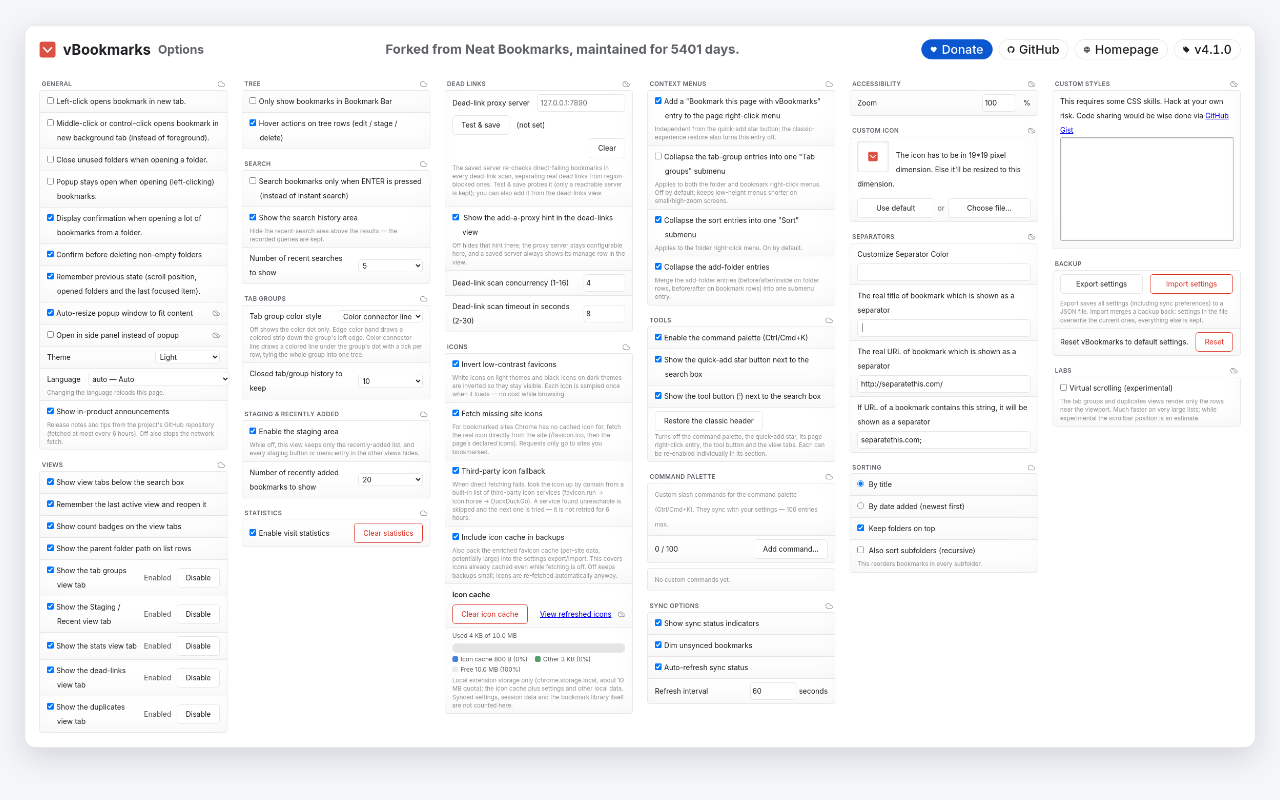
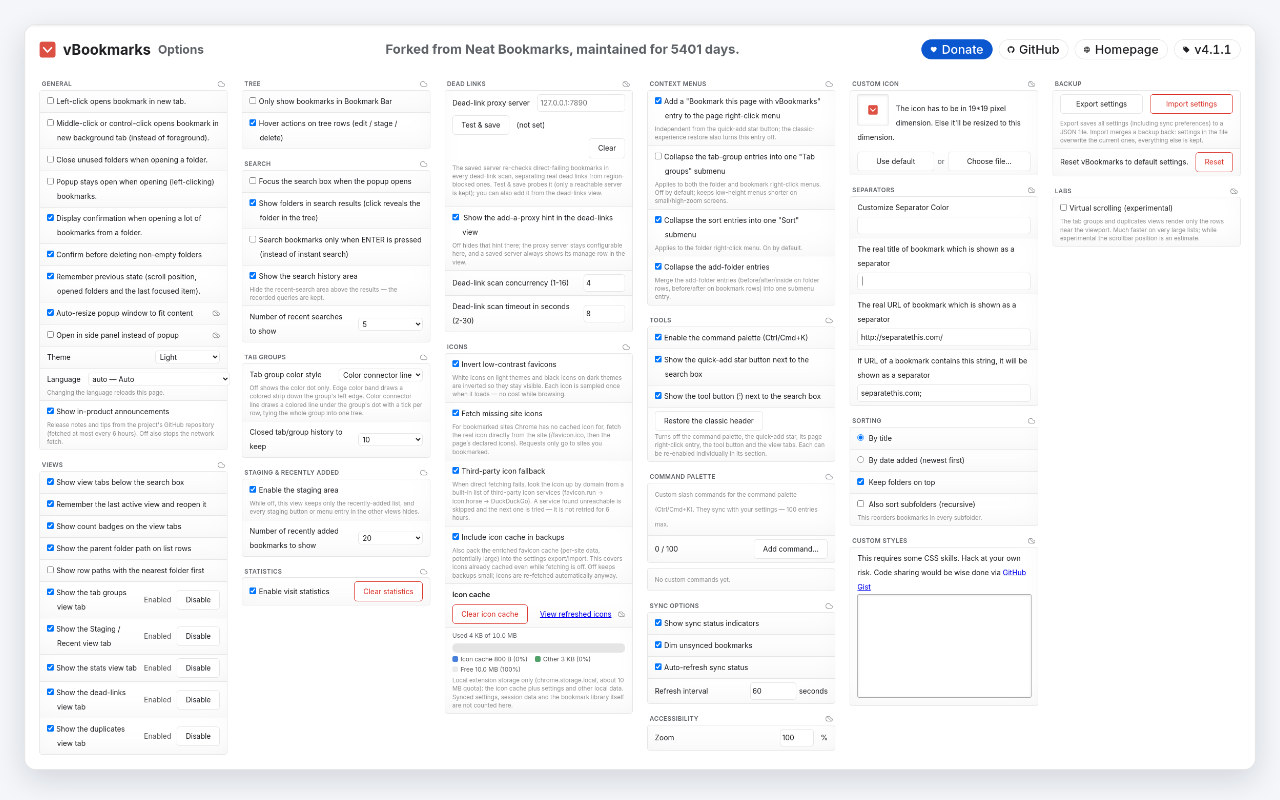
docs(release): 4.1.1 双语 changelog 定稿 + 商店六图重拍——选项页补齐三个新复选框（像素带 + 中文精确视觉双重证实）
changelog 覆盖 v4.1.0..HEAD 16 提交的用户可见面：
- New：全视图完整信息悬停（#62/#64——标题/URL/带标签路径/收藏时间一事一行，树的自适应截断机制退役）；三个新偏好（打开弹窗时聚焦搜索框默认关；搜索结果显示文件夹行默认开、关闭时在 100 条截断前过滤不占预算；行路径就近文件夹在先默认关、限深三级带尾缀…，tooltip 恒用规范全路径）
- Performance：标签组视图标题动画站闪烁修复（单行手术——悬停/焦点/拖拽标记全保留；渲染指纹门让 favicon/audible 类零渲染变化风暴一像素不重画）
- Fixed：树滚动记忆双洞（#63——弹窗中途关闭丢末次位置系 v4.0 存储迁移回归，同步 localStorage 影子恢复旧保证；视图切换往返回顶系隐藏容器清零 + 首滚覆盖）；重开搜索裸标题自愈（#64——搜索先于共享路径地图绘制，地图落地即治愈）
- Polish：暂存区选择模式连接线改锚头图标中心轴、小组头去死装饰 chevron

商店图重拍（update-store-assets.sh，normalize 门禁尺寸精确+RGB 全过）：options/promo/promo2/promo3/strip/themes 六张随发版提交。选项页旧图为 4.1.0 发版时拍摄、缺本版三个新复选框；重拍后中文精确视觉分析读到逐字匹配标签（"行路径就近文件夹在先显示（倒序）""打开弹窗时聚焦搜索框""搜索结果显示文件夹…"），且新旧图逐行像素差异带（y=44..53/81..86/91..799 整片下移）与"Views 组顶部插入行、下方内容整体推位"吻合。strip 变化最大（154KB→196KB，四主题 captioned strip 重排版）。

diff --git a/docs/README.md b/docs/README.md
@@ -210,6 +210,28 @@ python3 scripts/package.py         # → tmp/vBookmarks_<version>.zip
 
 # Changelogs
 
+### v4.1.1
+
+*2026-08-29*
+
+#### New
+
+- **Full-info tooltips in every view** (#62, #64): hovering a row — tree bookmarks *and folders*, search results, tab-group tabs, staging/recent, stats, dead links, duplicates — always tells the whole story now: title, URL, the labeled containing path and the date the bookmark was added, one fact per line. The tree's old "only when the title is truncated" adaptive tooltip is retired; the full block is simply always there.
+- **Three new preferences**: *Focus the search field when the popup opens* (Search group, off by default — start typing the moment it opens; the remembered-row focus restore stands down), *Show folder rows in search results* (Search group, on by default — turning it off drops folders *before* the 100-result cap so they can't spend it), and *Show row paths with the nearest folder first* (Views group, off by default) — row path labels flip to nearest-parent-first with a three-level depth cap (`Frontend < Dev < …`), while tooltips always keep the canonical root-first form.
+
+#### Performance
+
+- **The tab-groups view no longer flickers on sites that animate their tab title** (glyph-flipping "live" titles): a title flip used to rebuild the whole list on a 300 ms debounce; now exactly the one affected row is patched in place (hover, focus and drag marks survive), and refreshes whose data changes nothing rendered — favicon or audible-notification churn included — paint nothing at all.
+
+#### Fixed
+
+- **The tree remembers where you were — again, in both places** (#63): a popup closed mid-scroll no longer loses its final position (the last write was debounced and could die with the popup — a v4.0 storage-migration regression; a synchronous local shadow restores the old guarantee), and switching away from the tree and back no longer snaps to the top (a hidden container silently zeroes its scroll offset, and the first scroll after that overwrote the remembered deep position with a near-top value).
+- **Reopened searches show their paths** (#64): restoring a saved query on popup open used to render results with bare titles — the search painted before the shared path map existed; the results heal themselves the moment the map lands.
+
+#### Polish
+
+- **Staging selection mode, re-anchored**: the small group heads drop their fold chevron while selecting (folds are disabled there — it was dead chrome), and the dashed hierarchy lines now descend from the head icon's center axis through the clear gutter beside member favicons — the same icon-axis law as normal mode, no longer cutting through icon ink.
+
 ### v4.1.0
 
 *2026-08-28*

diff --git a/docs/README.zh.md b/docs/README.zh.md
@@ -210,6 +210,28 @@ python3 scripts/package.py         # → tmp/vBookmarks_<版本>.zip
 
 # 更新日志
 
+### v4.1.1
+
+*2026-08-29*
+
+#### 新增
+
+- **全视图完整信息悬停提示**（#62、#64）：悬停任意行——树的书签行*与文件夹行*、搜索结果、标签组标签行、暂存/最近、统计、死链、重复项——现在始终给出完整信息：标题、URL、带标签的所在路径与收藏时间，一事一行。树视图旧的"仅标题截断时才显示"自适应机制随之退役——完整信息块常在，不再需要截断判定。
+- **三个新偏好**：*打开弹窗时聚焦搜索框*（搜索组，默认关——一开即可输入，记忆行的焦点恢复让位）；*搜索结果显示文件夹行*（搜索组，默认开——关闭后在 100 条截断*之前*过滤，文件夹不再占用结果预算）；*行路径就近文件夹在先*（视图组，默认关）——行内路径标签翻转为就近父级在先、限深三级（`前端 < 开发 < …`），悬停提示恒用规范的全路径形态。
+
+#### 性能
+
+- **标题动画站点不再让标签组视图闪烁**（符号持续翻转的"动态标题"）：此前每次标题翻转都会在 300 ms 去抖后整列表重建；现在只就地补丁受影响的那一行（悬停、焦点与拖拽标记全部保留），且数据毫无渲染变化的重刷——包括 favicon 变更、音频通知类风暴——一像素都不再重画。
+
+#### 修复
+
+- **树视图重新记住你的位置——两处都记住**（#63）：滚动中途关闭弹窗不再丢失最后位置（末次写入经去抖、可能随弹窗一同消亡——v4.0 存储迁移引入的回归；同步本地影子恢复了旧保证）；切换视图离开树再回来也不再回到顶部（隐藏容器会悄悄把滚动位置清零，且随后第一次滚动还会用近顶值覆盖记住的深位置）。
+- **重开的搜索结果显示路径**（#64）：弹窗打开时恢复已存查询曾以裸标题渲染结果——搜索先于共享路径地图就绪绘制；现在地图落地即刻自愈。
+
+#### 打磨
+
+- **暂存区选择模式连接线改锚**：选择模式下小组头不再渲染折叠箭头（该模式下折叠本就禁用，箭头是死装饰），虚线层级线改为从头图标中心轴、沿成员 favicon 旁的净空槽下行——与常态模式同一图标轴法则，干线不再穿过图标墨迹。
+
 ### v4.1.0
 
 *2026-08-28*
